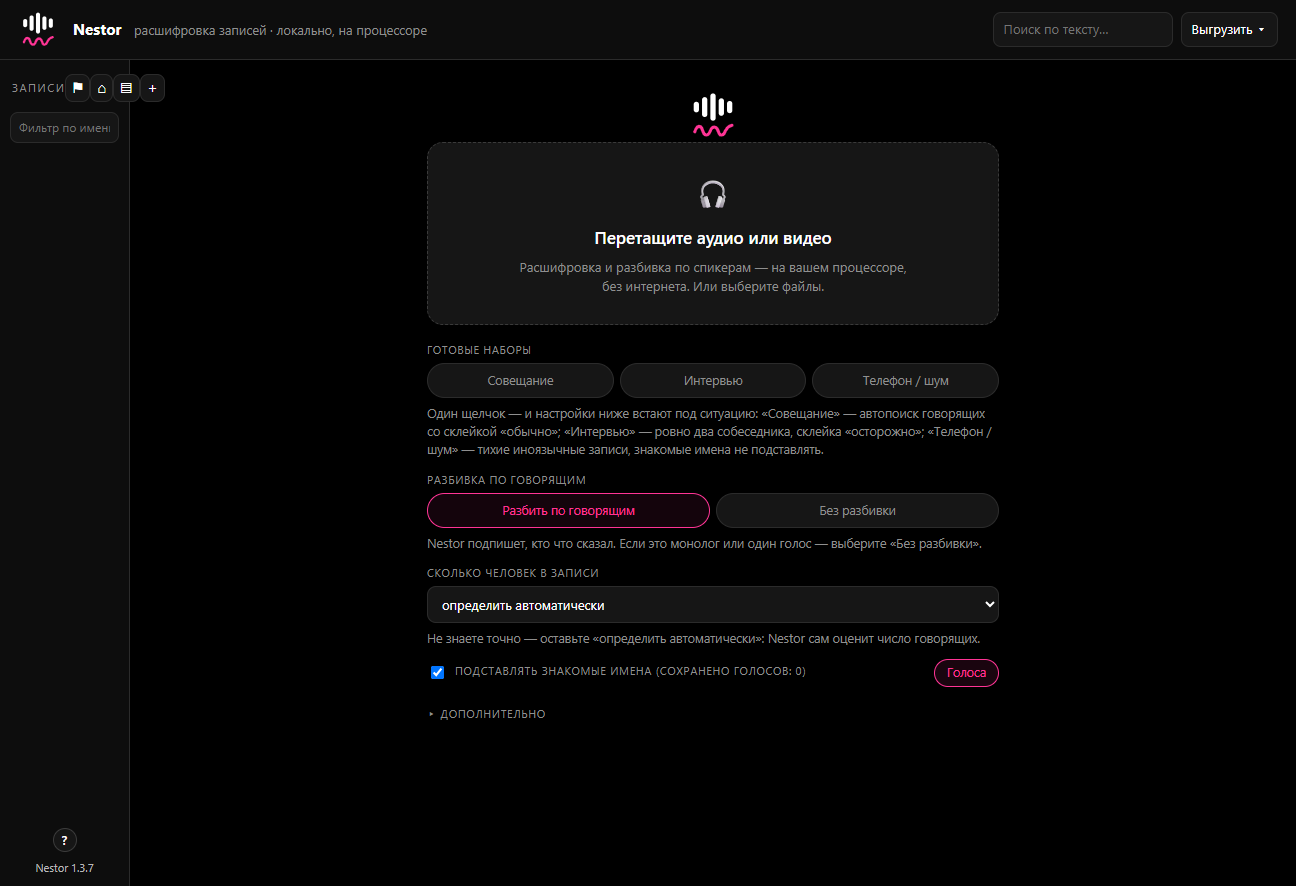
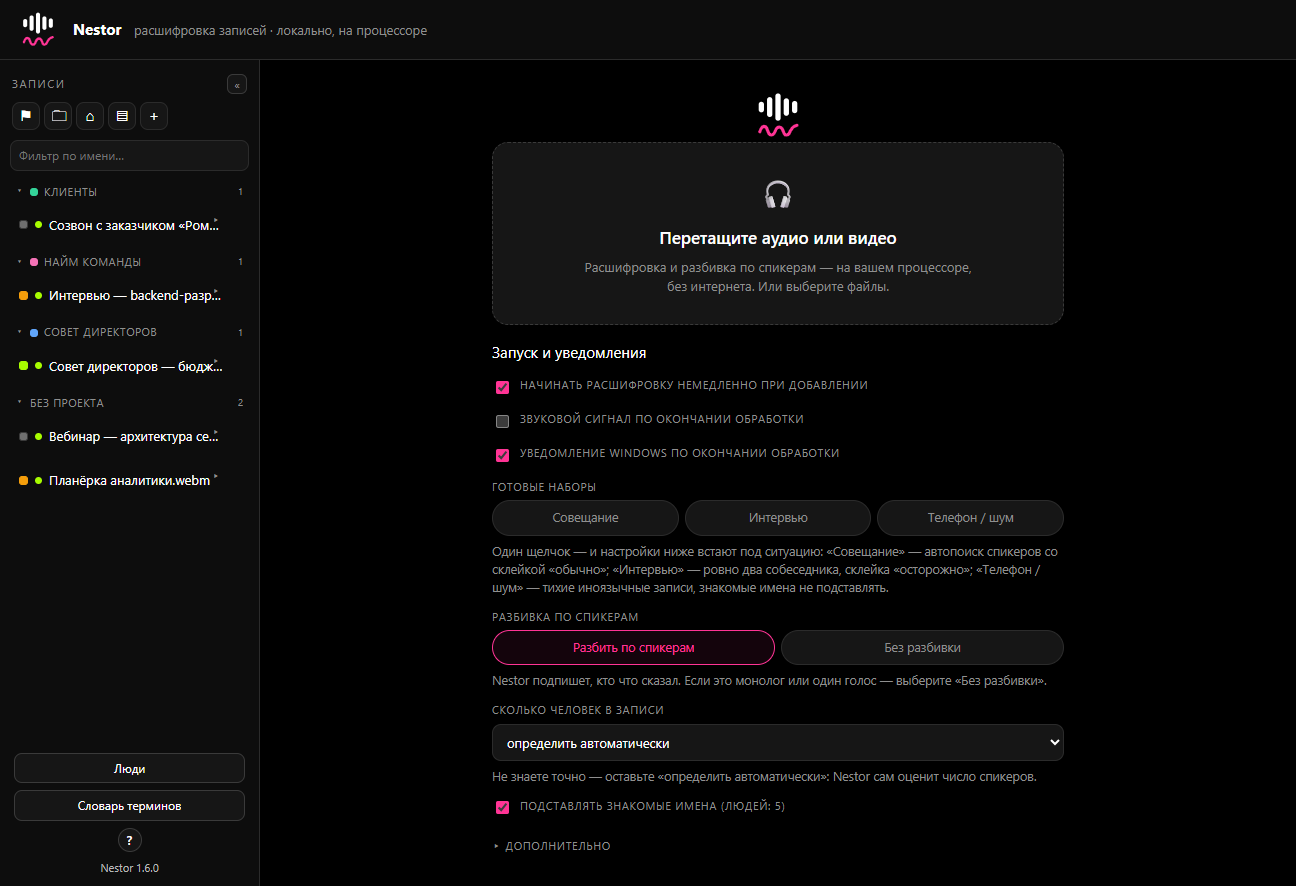
Статья на Habr и обновлённые скриншоты
Обзор приложения от цели создания до особенностей реализации:
конвейер (диаризация перед распознаванием), GigaAM v3 punct и
диаризация на pyannote + TitaNet без токена, «правило трёх» и слой
«Люди», восстановление пропусков, память на многочасовых записях,
дочерние процессы и ui.log, бюджет потоков, словарь терминов, видео
и OCR имён из кадров, проекты и состояние разбора, безопасность,
поставка в один exe, тесты и честные ограничения.

Скриншоты анонимизированы: сняты на синтетических данных
(вымышленные записи, проекты и имена), реальные данные не
использовались. main.png и voices.png перезаписаны свежими (были от
1.3.7), добавлены transcript, people, names-from-video, video-pane,
presenter, projects, table. Таблица скриншотов в README расширена.

diff --git a/docs/habr-article.md b/docs/habr-article.md
@@ -1,0 +1,261 @@
+# Nestor: офлайн-транскрибация и диаризация на CPU — от идеи до особенностей реализации
+
+*Расшифровка встреч без облака, без GPU и без отправки чужих голосов наружу. Как устроено настольное приложение, которое разбирает час записи за 15–35 минут на ноутбучном процессоре, почему в нём три разные нейросети и одна неочевидная текстовая замена.*
+
+---
+
+## Коротко для тех, кто не хочет читать целиком
+
+**Nestor** — открытое (MIT) настольное приложение и CLI для Windows, которое расшифровывает русскую речь и разбивает текст по спикерам **полностью локально**, на обычном процессоре. Внутри три нейросети: распознавание речи (GigaAM v3 punct, ONNX), сегментация говорящих (pyannote-segmentation-3.0) и голосовые отпечатки (TitaNet-small). Никакого облака, токенов и GPU; модели входят в поставку установщика. Час аудио — около 6–10 минут только на распознавание и 15–35 минут на полный проход со спикерами, в зависимости от CPU.
+
+Ссылки: репозиторий — [github.com/AndroDaemon/Nestor](https://github.com/AndroDaemon/Nestor), установщик и исходники — в разделе релизов, новости — [@Nestor_transcribe](https://t.me/Nestor_transcribe).
+
+---
+
+## Зачем это понадобилось
+
+Задача звучит буднично: «получить текст встречи с разделением по голосам». По рынку таких сервисов много, но у всех облачных вариантов есть общий недостаток — запись уходит на чужой сервер. В корпоративной и юридической практике это часто стоп-фактор: не всегда можно отправить наружу запись разговора с клиентом, кандидатом на собеседовании или сотрудником.
+
+Плюс есть чисто бытовые требования:
+
+* **Русский язык** и живая речь с пунктуацией, а не поток слов.
+* **Работа на ноутбуке** без дискретной видеокарты — у большинства менеджеров и аналитиков её просто нет.
+* **Понятный интерфейс**, а не командная строка, потому что пользователь — не программист.
+* **Никаких регистраций и токенов** — открыл и работаешь.
+
+Отсюда и сформировался профиль проекта: офлайн, CPU, Windows, настольное приложение с веб-технологиями внутри.
+
+---
+
+## Что такое Nestor на практике
+
+Приложение ставится в `%LOCALAPPDATA%\Nestor` без прав администратора. Окно — это нативный хост (pywebview + Microsoft Edge WebView2, который есть в Windows 10/11 из коробки), внутри которого работает локальный FastAPI-сервер и обычный веб-интерфейс. Есть и чистый CLI — `nestor transcribe meeting.mp3`.
+
+Что умеет интерфейс:
+
+| Раздел | Что делает |
+|---|---|
+| Библиотека | список записей с длительностью, числом спикеров и реплик, статусом обработки |
+| Редактор | правка текста прямо в реплике, переименование спикеров, склейка и разрезание реплик, закладки, поиск, отмена (Ctrl+Z) |
+| Плеер | волновая диаграмма с цветными «линейками» спикеров, перемотка кликом по времени или реплике, скорость, режим «следовать за речью» |
+| Люди | библиотека голосов: один раз сохранили голос под именем — на следующих записях Nestor узнаёт его сам |
+| Видео | панель видео над расшифровкой и отдельное окно «Экран докладчика» с субтитрами на втором мониторе |
+| Имена из видео | OCR читает подписи участников с кадров и подсказывает их при разметке |
+| Проекты | группировка записей по темам и состояние разбора: «не начато / в работе / завершено» |
+| Выгрузка | Word (docx), текст, Markdown, SRT, VTT, JSON; копирование в буфер с таймстемпами |
+
+Хранилище — только этот компьютер: исходники в `uploads\`, расшифровки в `output\`, голосовые отпечатки в `embeddings\` и `voiceprints\`, волны в `peaks\`, журнал в `log.txt`. Приложение во время работы не обращается к сети.
+
+![Главный экран Nestor: перетащите аудио или видео, готовые наборы, настройки](images/main.png)
+
+*Главный экран: сюда перетаскивается запись, рядом — готовые наборы и настройки.*
+
+![Просмотр записи: слева дерево записей по проектам, расшифровка с именами спикеров, панель спикеров справа, волновая дорожка внизу](images/transcript.png)
+
+*Разбор записи: слева — записи, сгруппированные по проектам; в центре — расшифровка с цветными именами спикеров; справа — панель спикеров; внизу — волна и плеер.*
+
+---
+
+## Архитектура конвейера
+
+Пайплайн собран из независимых шагов, и это принципиально: **распознавание речи и определение спикеров — разные модели**. Невнятную речь не исправят настройки спикеров, а ошибку диаризации не исправит более точная ASR.
+
+```
+аудио/видео (mp3, wav, webm, mp4, …)
+  │  ffmpeg → 16 кГц mono float32
+  ▼
+диаризация (sherpa-onnx) → реплики (start, end, speaker)
+  │  реплики склеиваются в чанки ≤ 20 с
+  ▼
+GigaAM v3 punct (ONNX, sherpa-onnx) с word_timestamps → слова с абсолютным временем
+  │  каждое слово приписывается спикеру с максимальным перекрытием
+  ▼
+сегменты (слова одного спикера склеиваются)
+  │  знакомые голоса: сравнение отпечатков кластеров с библиотекой
+  │  (опц.) словарь терминов: «докер» → Docker, «днс» → DNS
+  ▼
+экспорт
+```
+
+Ключевые модули: `pipeline.py` (оркестрация), `align.py` (чанки и привязка слов к спикерам), `asr_onnx.py` (GigaAM), `diarize_local.py` (sherpa-onnx), `speaker_embed.py` (отпечатки), `speaker_match.py` (правило узнавания), `glossary.py` (словарь), `exporters/`, `web/`.
+
+Обратите внимание на порядок: **сначала диаризация, потом распознавание**. Это даёт важное свойство — чанки для ASR нарезаются уже по границам речи, а не вслепую по равным интервалам. Модель не тратит время на тишину и не «перескакивает» между говорящими в одном куске.
+
+### Распознавание речи: GigaAM v3 punct
+
+ASR — это `gigaam-v3-punct`: русский трансдьюсер GigaAM v3 с пунктуацией, сконвертированный в ONNX и запускаемый через sherpa-onnx (int8-энкодер). Текст сразу приходит со знаками препинания и заглавными буквами.
+
+Несколько инженерных деталей, которые пришлось учесть:
+
+* Модель создаётся с `model_type="nemo_transducer"` — обычный загрузчик трансдьюсера читает `vocab_size`/`context_size` из метаданных декодера, а у этой модели они лежат в энкодере.
+* GigaAM отдаёт **word-level таймстемпы** (появились в релизе 2026/04) — именно на них держится привязка слов к спикерам. Без них получилось бы заметно хуже.
+* Токены SentencePiece склеиваются в слова: токен, начинающийся с маркера слова (`▁` или пробел) — новое слово, токен без маркера (пунктуация) дописывается к текущему. Словам даётся небольшой `WORD_END_PAD` (0.12 с), чтобы соседние слова не наезжали друг на друга в экспортах.
+
+Скорость: RTF ≈ 0.1, то есть час аудио — около 6–10 минут только на распознавание.
+
+### Диаризация: pyannote + TitaNet, без токена
+
+Диаризация отвечает на вопрос «кто когда говорил». Здесь используется связка из двух публичных ONNX-моделей:
+
+* `pyannote-segmentation-3.0` — сегментация говорящих (кто говорит в каждый момент);
+* `nemo_en_titanet_small.onnx` — голосовые эмбеддинги (192-мерные L2-нормализованные векторы).
+
+Принципиальный момент: **и то, и другое входит в поставку и работает без сети и без токена Hugging Face**. Многие рецепты диаризации требуют принять лицензию и получить токен — здесь этого нет, что для офлайн-приложения критично.
+
+Дальше кластеры (однородные по голосу группы реплик) нумеруются как `SPEAKER_00`, `SPEAKER_01` и т. д. — **по первому появлению в записи**, а не по «сырым» id диаризатора (те бывают вида 0, 71, 296 и пугают пользователя).
+
+### Привязка слов к спикерам
+
+Это функция `assign_speakers` из `align.py`. Каждое слово «получает» спикера с максимальным временным перекрытием. Слова, которые ASR услышал, а диаризация пропустила (например, короткая ремарка на границе), приписываются **ближайшей по времени** реплике — так не теряется текст.
+
+Затем слова одного спикера склеиваются в реплики-сегменты. Здесь есть ограничение на длину сегмента (60 с): без него непрерывный монолог превратился бы в абзац на несколько минут — нечитаемо в расшифровке и непригодно для модели отпечатков, которая отвергает слишком длинные фрагменты (свыше ~123 с).
+
+---
+
+## Особенности, о которых стоит рассказать отдельно
+
+### 1. Знакомые голоса и «Люди»
+
+Это, пожалуй, самая полезная функция и самая нетривиальная. Идея простая: вы один раз сохранили голос человека под именем — и на следующих записях Nestor подставляет имя сам.
+
+Как хранится: отпечаток — это вектор float32 (dim 192, L2-нормализован) в `voiceprints\<slug>.npy`, метаданные — в JSON. Slug — транслитерация имени («Иван Петров» → `ivan-petrov`), коллизии разрешаются суффиксом. Запись атомарная (tmp + `os.replace` с ретраями). Повторное «запоминание» того же имени **усредняет вектор по длительности**, а не затирает — портрет постепенно становится точнее.
+
+Правило узнавания («правило трёх») — намеренно строгое, чтобы не путать людей. Имя присваивается, только если выполнены **все три** условия:
+
+1. косинусная близость к лучшему отпечатку ≥ **0.75**;
+2. отрыв от второго кандидата ≥ **0.05** (никаких «ничьих»);
+3. ≥ **60 %** сегментов кластера голосуют за того же победителя (короткие сегменты < 0.5 с не голосуют).
+
+Не прошло — ярлык остаётся `SPEAKER_NN`. Никаких догадок. Один отпечаток не может быть присвоен двум кластерам в одном прогоне.
+
+**Робастное ядро портрета.** Наивное «среднее всех реплик» портится от случайного шума и чужого голоса. Поэтому Nestor считает черновой центроид, отбрасывает выбросы и берёт среднее по «ядру» — ближайшим к центроиду репликам (около 70 %, но не меньше двух реплик). Если пользователь выделил реплики-образцы вручную и нажал 🎙, портрет строится **только по ним** и без автоматического отсева: выбор человека считается доверенным.
+
+В версии 1.6.0 над библиотекой голосов появился слой **«Люди»**. Раньше сущностью был отдельный отпечаток; теперь — человек: одно отображаемое имя, несколько написаний (алиасы), все его голоса и заметка. Инвариант: **один голос принадлежит ровно одному человеку**. Переименование человека обновляет имя во всех записях, где оно подставилось по голосу, но **не трогает ручные правки**. При вводе имени интерфейс предлагает «Похоже, это …» — так «Иванов Иван» и «Иванов Иван Петрович» схлопываются в одного человека. Людей можно склеивать, переносить между ними голоса и оставлять заметки.
+
+![Окно «Люди»: список людей с ролями, алиасами, числом голосов и точностью узнавания](images/people.png)
+
+*Реестр «Люди»: у каждого человека — имя, роль, написания-алиасы, привязанные голоса и точность узнавания.*
+
+### 2. Восстановление пропусков без лишней работы
+
+Первое, что бросается в глаза при работе с реальными записями: ASR местами «теряет» тихую речь — отошёл человек от микрофона, проговорил на вдохе. Nestor делает второй «спасательный» проход по пропускам, но не по всем подряд:
+
+* в повторную расшифровку попадают паузы длиной **2–20 с** (короче — это обычная пауза, длиннее — настоящая тишина);
+* фрагмент перерасшифровывается, только если в нём **слышно что-то громче шумового пола** комнаты. Порог намеренно щедрый: тихий участник, отошедший от микрофона, его проходит, а дыхание и шелест бумаги — нет.
+
+Замеры на часовых записях показали, что самый громкий 20-миллисекундный кадр каждой «дырки» сидит на 6–20 дБ выше собственного шумового пола комнаты, и именно этот пол первая стадия оставляет незанятым. Гейт по шумовому полу отсекает от 0 до 20 % лишних перерасшифровок, не теряя тихую речь.
+
+### 3. Память и многочасовые записи
+
+Самый неприятный класс багов для десктопного приложения — падение на длинных файлах. Пятичасовые записи когда-то заканчивались ошибкой `bad allocation`: в памяти оказывалось несколько полных копий волны.
+
+Что сделано:
+
+* **Подготовка звука без многогигабайтных копий.** Декодированный звук пишется в `audio16k.wav` блоками по ходу декодирования, а не склеивается из сотен тысяч кусков в памяти.
+* **Диаризация перекрывающимися блоками** по 20 минут с сшивкой ярлыков спикеров между блоками (метки сопоставляются по косинусной близости центроидов). Пик памяти упал с ≈6 ГБ до ≈1.2–1.8 ГБ.
+* **Пропуск цифровой тишины.** Блок тише −70 dBFS не содержит речи: длинные записи с «молчащим» диктофоном больше не гоняются через модель, и pyannote не читает шумовой пол как спикера.
+
+### 4. Дочерние процессы: «окно не замирает»
+
+Декодирование и диаризация — самые тяжёлые и «залипающие» стадии. Они выполняются в **отдельных процессах** с пониженным приоритетом. Это решает две задачи: интерфейс остаётся живым с первой секунды (раньше окно подвисало на десятки секунд, пока шёл декод), а зависшую тяжёлую стадию можно прервать, не убивая всё приложение. Если дочерний процесс не справился, родитель аккуратно откатывается на выполнение «в себе».
+
+Есть при этом и защита от потери работы: если закрыть окно во время обработки, Nestor сначала спросит подтверждение и только потом остановит задания (а события окна и необработанные исключения пишутся в `ui.log` — на случай, если окно всё-таки «пропало»).
+
+### 5. Экономия потоков: почему у диаризации отдельный бюджет
+
+Тут неочевидный, но важный момент. Разные стадии по-разному реагируют на число потоков:
+
+* **ASR** выигрывает от нескольких ядер, но не бесконечно: авто-режим ставит физические ядра, **не больше 8** — дальше ONNX Runtime почти не ускоряется, а 15-ваттный ноутбук начинает троттлить.
+* **Диаризация** использует агломеративную кластеризацию, квадратичную по числу речевых сегментов: больше потоков делают стадию **медленнее**. Замеры на часовом аудио: 4 потока обогнали 8 (28.4 с против 33.1 с на 300-секундном срезе и 44.5 с против 72.0 с на загруженной машине). Поэтому у диаризации **свой фиксированный бюджет — 4 потока**.
+
+Отдельно — гибридные процессоры Intel (P-ядра + E-ядра): тяжёлый воркер удерживается на производительных ядрах, при желании поднимается приоритет процесса. На не-Windows и без нужных данных всё это аккуратно вырождается в «ничего не делаем».
+
+### 6. Словарь терминов
+
+Модель слышит аббревиатуры так, как их произносят: «докер», «днс», «айпи адрес». Nestor с включённым словарём заменяет такие формы на канонические — `Docker`, `DNS`, `IP-адрес`. Это **чисто текстовая замена** по YAML-словарю (242 термина: разработка, инфраструктура, виртуализация, сотовая связь, корпоративные системы), полностью офлайн и без влияния на скорость.
+
+Тонкость: короткие русские алиасы («днс», «впн») применяются только к словам, распознанным заглавными буквами, — чтобы не портить обычную речь («нас», «лак»). Словарь правится прямо в интерфейсе и хранится в `hotwords.yaml`; встроенный при этом не трогается — при первом изменении он копируется в пользовательский файл.
+
+### 7. Видео и имена из кадров
+
+У записей с картинкой появляются два режима: панель видео над расшифровкой и отдельное окно **«Экран докладчика»** с крупным видео и субтитрами (удобно на втором мониторе). Режимы взаимоисключающие; звук всегда в главном окне (видео без звука — нет эха), управление общее, синхронизация — через `BroadcastChannel`. Есть кнопка «Поверх», удерживающая окно над другими программами.
+
+Отдельная любопытная часть — **чтение имён участников с кадров видео**. Это не «кто когда говорит», а именно ростер: Nestor читает подписи на плашках участников и подсказывает их при разметке спикеров.
+
+OCR пришлось написать свой: в замороженной сборке нет OpenCV и SciPy, поэтому движок собран из `onnxruntime` + `numpy` + `Pillow`, а связные компоненты реализованы небольшим union-find. Используются две модели PaddleOCR: детектор `PP-OCRv5_mobile_det` и кириллический распознаватель `cyrillic_PP-OCRv5_mobile_rec`. Это **не универсальный OCR** — он рассчитан на короткие высококонтрастные строки вроде плашек участников видеоконференции. Модели занимают ≈13 МБ и необязательны.
+
+![Попап переименования спикера с блоком «Имена из кадров записи»: три имени, распознанные с плашек видео](images/names-from-video.png)
+
+*При переименовании спикера Nestor предлагает имена, прочитанные OCR с кадров видео.*
+
+Плюс есть **копирование расшифровки с таймстемпами**: строки вида `[00:12:34,120] Имя: текст`.
+
+![Видео-панель над расшифровкой в записи с картинкой](images/video-pane.png)
+
+*Видео-панель закреплена над текстом — удобно листать расшифровку, не теряя картинку.*
+
+![Отдельное окно «Экран докладчика»: крупное видео и субтитры с именем спикера](images/presenter.png)
+
+*Окно «Экран докладчика» для второго монитора: крупное видео и субтитры поверх него.*
+
+### 8. Проекты и состояние разбора
+
+При большом количестве длинных файлов хочется понимать, что к чему относится и что уже сделано. Отсюда два независимых механизма:
+
+* **Проекты** — группировка по теме, как папки, но одна запись лежит ровно в одном проекте. В панели слева проекты показаны сворачиваемыми секциями, назначение — из меню записи, массово из таблицы, переименование сохраняет записи, удаление проекта не теряет их («Без проекта»).
+* **Состояние разбора** — отдельная от статуса обработки ось: «Не начато» (серый) / **«В работе» (янтарный, ставится сам при правке реплик или спикеров)** / «Завершено» (лаймовый, вручную). Правка уже завершённой записи автоматически возвращает её в «В работе».
+
+Важно, что «в работе» — **не ручная отметка**: она появляется сама, как только вы что-то поправили. Это и была цель — не помнить, где вы остановились.
+
+![Диалог «Управление проектами»: список проектов с числом записей и кнопками](images/projects.png)
+
+*Проекты — это «папки» для тем: управление — переименование и удаление с сохранением записей.*
+
+![Таблица записей: колонки со статусом, длительностью, временем обработки и скоростью](images/table.png)
+
+*Режим таблицы: все записи столбцами — статус, длительность, время и скорость обработки.*
+
+---
+
+## Безопасность и приватность
+
+Приложение принципиально офлайн, и это отражено в коде:
+
+* Сервер слушает **только 127.0.0.1** (loopback недоступен с других машин) и требует **сеансовый токен**: при запуске печатается готовый адрес с `?token=…`, страница запоминает токен (заголовок `X-Nestor-Token` + HttpOnly-cookie).
+* Запросы без токена и с чужим `Host` отклоняются с 403 — это закрывает CSRF и DNS-rebinding.
+* Других слушающих портов и исходящих соединений у Nestor нет.
+* Второй запуск не создаёт вторую копию, а поднимает уже открытое окно (named mutex).
+
+---
+
+## Поставка: как всё это собирается в один exe
+
+Приложение ставится как onedir-сборка PyInstaller: `Nestor.exe` + папка с зависимостями и моделями (≈523 МБ на диске; установщик Inno Setup — около 289 МБ). Модели лежат **внутри** (`_internal\models`), поэтому после установки приложение работает без интернета. Версия берётся из `pyproject.toml` — единый источник и для приложения, и для установщика.
+
+Интересная деталь для тех, кто будет собирать сам: spec ищет модели в каталоге данных (`%LOCALAPPDATA%\Nestor\models`). Если этой папки нет, сборка молча проходит **без моделей** и весит вдвое меньше — приложение потом не сможет работать. Это стоило нам отдельной отладки.
+
+---
+
+## Тесты и качество
+
+Проект покрыт тестами (`pytest`): логика нарезки на чанки, привязки слов к спикерам, экспорт в JSON/SRT/TXT, веб-API, реестр людей, проекты и состояние разбора, видео-пробинг и OCR-логика. Тяжёлые зависимости в тестах не используются — они гоняются на чистой логике и на API-клиенте. На момент версии 1.6.0 — **404 passed, 1 skipped**.
+
+---
+
+## Компромиссы и честные ограничения
+
+* **Формат видео.** Встроенный плеер (WebView2/Chromium) уверенно показывает `.webm`, `.mp4`, `.mov`; `.mkv` и `.avi` могут не открыться — в этом случае панель честно сообщает об этом, а звук и расшифровка работают как обычно.
+* **Качество зависит от записи.** Если спикеры говорят одновременно (перебивают друг друга) или микрофон один на всех в шумной комнате, диаризация ошибается — это ограничение самой задачи, а не конкретной модели.
+* **Русский язык.** ASR заточен под GigaAM v3 punct; для других языков нужна другая модель. Диаризация и отпечатки — языконезависимые.
+* **CPU.** GPU не поддерживается сознательно: цель — работать там, где дискретной видеокарты нет.
+* **Дисциплина умалчивания.** Там, где уверенности нет, Nestor молчит: не дотянул голос до порога — оставляет `SPEAKER_NN`, а не угадывает имя.
+
+---
+
+## Итоги
+
+Nestor — пример того, как из «неудобно отправлять запись в облако» вырастает довольно плотное приложение: три нейросети, свой OCR, свой реестр «людей», обработка часовых записей на ноутбуке, живой интерфейс и полная автономность. Главные решения — **диаризация перед распознаванием**, **строгое правило узнавания голосов** и **честное молчание вместо догадок** — оказались и самыми правильными.
+
+Проект открытый (лицензия MIT). Код, документация и руководство пользователя — в репозитории; готовый установщик — в релизах. Если тема интересна, в следующих материалах можно подробнее разобрать внутренности OCR или пайплайн отпечатков голоса.
+
+*Репозиторий: [github.com/AndroDaemon/Nestor](https://github.com/AndroDaemon/Nestor). Канал с новостями версий: [@Nestor_transcribe](https://t.me/Nestor_transcribe).*

diff --git a/README.md b/README.md
@@ -181,11 +181,19 @@ nestor serve --port 8080
 `json/srt/txt/docx`, история заданий. Клик по строке транскрипта — перемотка
 плеера на нужный момент.
 
-Веб-интерфейс — главный экран и раздел «Люди»:
+Веб-интерфейс — главный экран, разбор записи и «Люди»:
 
-| Главный экран | Люди |
+| Главный экран | Разбор записи |
 | --- | --- |
-| ![Главный экран](docs/images/main.png) | ![Люди](docs/images/voices.png) |
+| ![Главный экран](docs/images/main.png) | ![Разбор записи](docs/images/transcript.png) |
+
+| Люди | Проекты |
+| --- | --- |
+| ![Люди](docs/images/voices.png) | ![Проекты](docs/images/projects.png) |
+
+| Видео и «Экран докладчика» | Таблица записей |
+| --- | --- |
+| ![Видео](docs/images/presenter.png) | ![Таблица записей](docs/images/table.png) |
 
 Сервер всегда слушает **только 127.0.0.1** (loopback недоступен с других
 машин) и требует **сеансовый токен**: при запуске печатается готовый адрес
